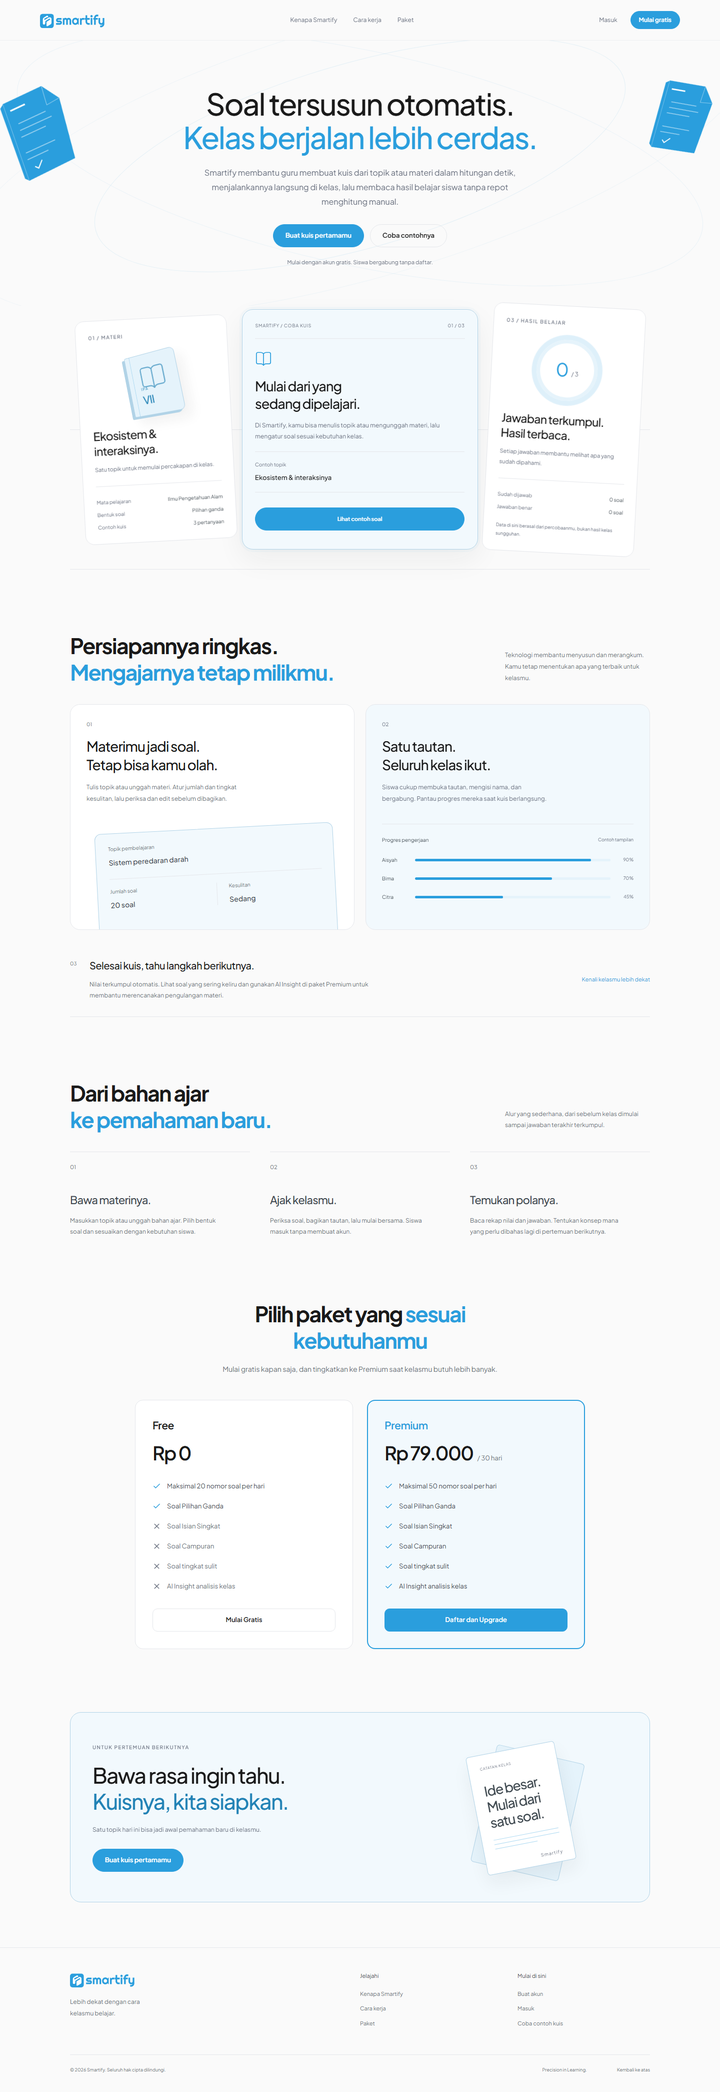
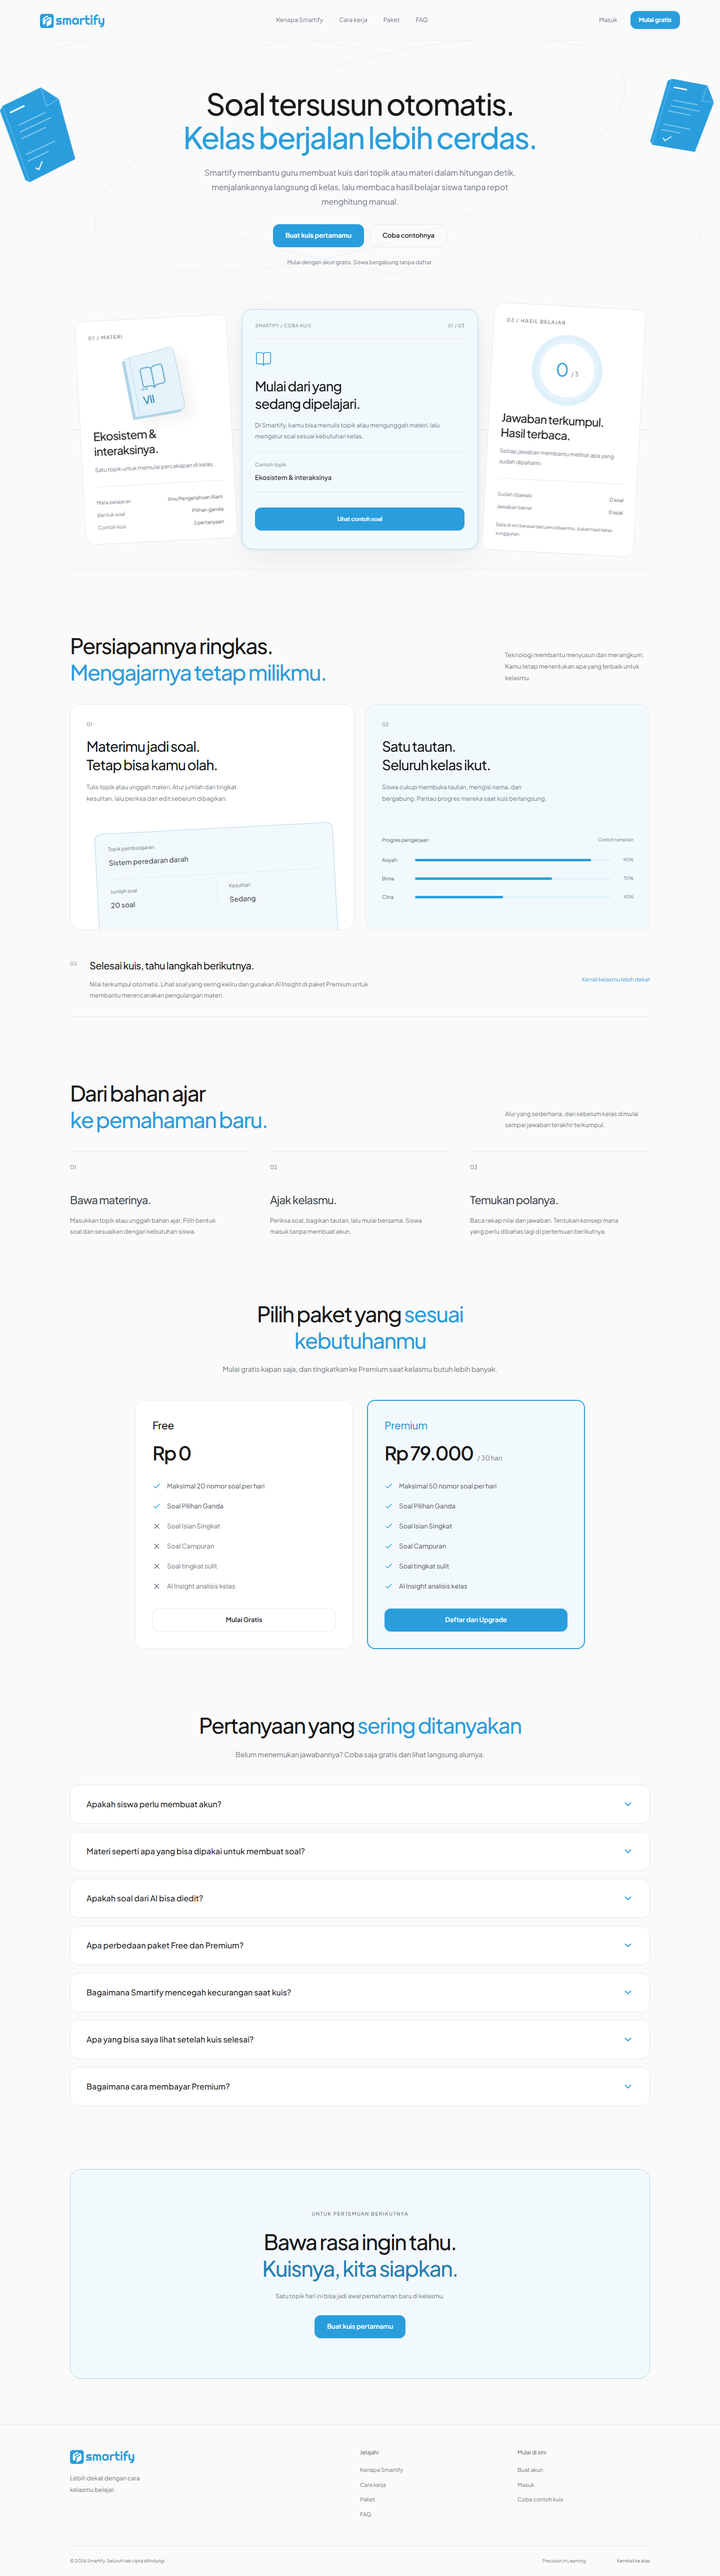
feat: add landing FAQ and polish landing page, add README screenshots

diff --git a/components/landing/landing.css b/components/landing/landing.css
@@ -40,7 +40,7 @@
 .landing-container { width: min(1160px, calc(100% - 80px)); margin-inline: auto; }
 .landing-skip { position: fixed; top: -100px; left: 20px; z-index: 100; padding: 12px 20px; background: var(--lp-accent); color: var(--lp-bg); border-radius: 6px; }
 .landing-skip:focus { top: 16px; }
-.landing-page .landing-button { min-height: 46px; padding: 12px 24px; display: inline-flex; align-items: center; justify-content: center; gap: 18px; background: var(--lp-accent); color: var(--primary-foreground); border: 1px solid var(--lp-accent); border-radius: 50px; font-size: 13px; font-weight: 600; line-height: 1.5; transition: background .2s, border-color .2s, transform .2s; text-decoration: none; }
+.landing-page .landing-button { min-height: 46px; padding: 12px 24px; display: inline-flex; align-items: center; justify-content: center; gap: 18px; background: var(--lp-accent); color: var(--primary-foreground); border: 1px solid var(--lp-accent); border-radius: var(--radius); font-size: 13px; font-weight: 600; line-height: 1.5; transition: background .2s, border-color .2s, transform .2s; text-decoration: none; }
 .landing-page .landing-button:hover { background: var(--lp-accent-strong); border-color: var(--lp-accent-strong); transform: translateY(-2px); }
 .landing-page .landing-button-outline { background: transparent; color: var(--lp-text); border-color: var(--lp-line); }
 .landing-page .landing-button-outline:hover { background: var(--lp-tint); border-color: var(--lp-edge); }
@@ -56,7 +56,7 @@
 .landing-nav-links a { padding-block: 14px; }
 .landing-nav-links a:hover, .landing-login:hover { color: var(--lp-accent); }
 .landing-nav-actions { display: flex; align-items: center; gap: 26px; }
-.landing-menu { display: none; width: 38px; height: 38px; place-items: center; border: 1px solid var(--lp-line); border-radius: 50%; color: var(--lp-text); background: transparent; }
+.landing-menu { display: none; width: 38px; height: 38px; place-items: center; border: 1px solid var(--lp-line); border-radius: var(--radius); color: var(--lp-text); background: transparent; }
 .landing-nav-links .landing-mobile-login { display: none; }
 
 .landing-hero { position: relative; padding: 92px 24px 76px; overflow: hidden; }
@@ -128,9 +128,8 @@
 .landing-section { margin-top: 126px; }
 .landing-section-heading { display: flex; justify-content: space-between; align-items: flex-end; gap: 40px; margin-bottom: 38px; }
 .landing-section-heading .landing-overline { margin-bottom: 17px; }
-.landing-page h2 { font-size: clamp(29px, 3.1vw, 43px); font-weight: 450; line-height: 1.22; letter-spacing: -.045em; }
+.landing-page h2 { font-size: clamp(29px, 3.1vw, 43px); font-weight: 500; line-height: 1.22; letter-spacing: -.045em; }
 .landing-page h2 > span { color: var(--muted); }
-.landing-page :is(#features-title, #how-title) { font-weight: 700; }
 .landing-page :is(#features-title, #how-title) > span { color: var(--primary); }
 .landing-section-heading > p { max-width: 290px; padding-bottom: 3px; font-size: 12px; line-height: 1.9; color: var(--lp-muted); }
 .landing-feature-grid { display: grid; grid-template-columns: 1fr 1fr; gap: 22px; }
@@ -166,21 +165,12 @@
 .landing-steps h3 { margin-top: 40px; color: var(--label); font-size: 22px; font-weight: 450; letter-spacing: -.035em; }
 .landing-steps p { margin-top: 14px; max-width: 310px; color: var(--lp-muted); font-size: 12px; line-height: 1.9; }
 
-.landing-cta { display: grid; grid-template-columns: 1.35fr 1fr; align-items: center; margin-block: 126px 90px; padding: 44px; min-height: 340px; background: var(--lp-tint); border: 1px solid var(--lp-edge); border-radius: 22px; position: relative; overflow: hidden; }
+.landing-cta { display: grid; justify-items: center; text-align: center; margin-block: 126px 90px; padding: 80px 44px; background: var(--lp-tint); border: 1px solid var(--lp-edge); border-radius: 22px; position: relative; overflow: hidden; }
 .landing-cta > div:first-child { position: relative; z-index: 2; }
 .landing-cta h2 { margin-top: 22px; }
 .landing-cta h2 > span { color: var(--lp-accent-strong); }
-.landing-cta p { max-width: 360px; color: var(--lp-muted); font-size: 12px; line-height: 1.9; margin-top: 19px; }
+.landing-cta p { max-width: 420px; margin-inline: auto; color: var(--lp-muted); font-size: 12px; line-height: 1.9; margin-top: 19px; }
 .landing-cta .landing-button { margin-top: 26px; }
-.landing-cta-art { height: 290px; position: relative; perspective: 800px; }
-.landing-cta-sheet, .landing-cta-sheet-back { width: 180px; height: 240px; position: absolute; top: 27px; left: calc(50% - 75px); border: 1px solid var(--lp-edge); border-radius: 6px; background: var(--lp-panel); transform: rotate(-11deg); z-index: 1; }
-.landing-cta-sheet { padding: 23px; box-shadow: 0 18px 36px var(--lp-shadow); }
-.landing-cta-sheet > span { display: block; color: var(--muted); font-size: 7px; letter-spacing: .12em; }
-.landing-cta-sheet > strong { display: block; color: var(--label); font-size: 27px; font-weight: 450; letter-spacing: -.05em; line-height: 1.2; margin-block: 22px 18px; }
-.landing-cta-sheet > i { display: block; margin-top: 8px; height: 1px; background: var(--lp-rule); }
-.landing-cta-sheet > i:nth-of-type(3) { width: 65%; }
-.landing-cta-sheet > span:last-child { margin-top: 22px; text-align: right; font-size: 9px; }
-.landing-cta-sheet-back { transform: rotate(13deg) translate(15px, 6px); background: var(--lp-tint-2); border-color: var(--lp-edge); z-index: 0; }
 .landing-footer { border-top: 1px solid var(--lp-line); }
 .landing-footer-top { display: grid; grid-template-columns: 2fr 1fr 1fr; gap: 50px; padding-block: 48px 54px; }
 .landing-footer-top p { color: var(--muted); font-size: 12px; line-height: 1.9; margin-top: 18px; }
@@ -239,10 +229,7 @@
   .landing-feature-summary { display: block; }
   .landing-feature-summary .landing-text-link { margin-top: 22px; margin-left: 39px; }
   .landing-steps { gap: 26px; }
-  .landing-cta { grid-template-columns: 1.4fr 1fr; padding: 32px; margin-block: 96px 70px; }
-  .landing-cta-sheet, .landing-cta-sheet-back { width: 150px; height: 220px; left: calc(50% - 65px); }
-  .landing-cta-sheet { padding: 20px; }
-  .landing-cta-sheet > strong { font-size: 24px; }
+  .landing-cta { padding: 56px 32px; margin-block: 96px 70px; }
 }
 @media (max-width: 620px) {
   .landing-container, .landing-nav-inner { width: calc(100% - 36px); }
@@ -297,13 +284,11 @@
   .landing-steps li { padding-top: 16px; }
   .landing-steps h3 { margin-top: 17px; font-size: 23px; }
   .landing-steps p { margin-top: 10px; max-width: none; font-size: 11px; }
-  .landing-cta { grid-template-columns: 1fr; padding: 28px 25px 0; margin-block: 76px 60px; border-radius: 18px; }
+  .landing-cta { padding: 44px 25px; margin-block: 76px 60px; border-radius: 18px; }
   .landing-cta .landing-overline { font-size: 8px; }
   .landing-cta h2 { margin-top: 18px; font-size: 31px; }
   .landing-cta p { font-size: 11px; }
   .landing-cta .landing-button { min-height: 43px; font-size: 11px; }
-  .landing-cta-art { height: 245px; margin-top: 14px; }
-  .landing-cta-sheet, .landing-cta-sheet-back { top: 24px; left: calc(50% - 85px); }
   .landing-footer-top { grid-template-columns: 1fr 1fr; padding-block: 35px; gap: 30px 20px; }
   .landing-footer-top > div { grid-column: 1 / -1; }
   .landing-footer-top > div p { font-size: 11px; margin-top: 13px; }
@@ -319,13 +304,13 @@
 }
 
 .landing-pricing-heading { text-align: center; }
-.landing-pricing-heading h2 { max-width: 660px; margin-inline: auto; font-weight: 700; }
+.landing-pricing-heading h2 { max-width: 660px; margin-inline: auto; }
 .landing-pricing-heading h2 > span { color: var(--lp-accent); }
 .landing-pricing-heading p { margin: 18px auto 0; color: var(--lp-muted); font-size: 14px; line-height: 1.9; }
 .landing-pricing-cards { display: grid; grid-template-columns: repeat(2, minmax(0, 1fr)); gap: 28px; max-width: 900px; margin: 48px auto 0; }
 .landing-plan-card { display: flex; flex-direction: column; padding: 34px; border: 1px solid var(--lp-line); border-radius: 16px; background: var(--lp-panel); }
 .landing-plan-card-premium { border: 2px solid var(--primary); padding: 33px; background: var(--lp-tint); }
-.landing-plan-card h3 { font-size: 21px; font-weight: 600; letter-spacing: -.025em; }
+.landing-plan-card h3 { font-size: 21px; font-weight: 500; letter-spacing: -.025em; }
 .landing-plan-card-premium h3 { color: var(--lp-accent); }
 .landing-plan-card .landing-plan-price { display: flex; align-items: baseline; flex-wrap: wrap; gap: 8px; margin-top: 15px; font-size: 38px; font-weight: 600; letter-spacing: -.05em; line-height: 1.3; }
 .landing-plan-period { color: var(--lp-muted); font-size: 13px; font-weight: 400; letter-spacing: 0; }
@@ -333,7 +318,7 @@
 .landing-plan-card li { display: flex; align-items: flex-start; gap: 12px; color: var(--label); font-size: 13px; line-height: 1.7; }
 .landing-plan-card li > svg { flex-shrink: 0; margin-top: 3px; color: var(--lp-accent); }
 .landing-plan-card li.is-unavailable, .landing-plan-card li.is-unavailable > svg { color: var(--muted); }
-.landing-page .landing-plan-card .landing-button { display: flex; width: 100%; margin-top: auto; border-radius: 10px; }
+.landing-page .landing-plan-card .landing-button { display: flex; width: 100%; margin-top: auto; border-radius: var(--radius); }
 @media (max-width: 620px) {
   .landing-pricing-heading p { font-size: 12px; margin-top: 15px; }
   .landing-pricing-cards { grid-template-columns: 1fr; gap: 20px; max-width: 420px; margin-top: 30px; }
@@ -367,10 +352,8 @@
   .landing-plan-card:hover,
   .landing-material:hover,
   .landing-demo-insight:hover { translate: 0 -4px; border-color: var(--lp-edge); box-shadow: 0 12px 28px var(--lp-shadow); }
-  .landing-book-art,
-  .landing-cta-sheet { transition: transform .35s ease; }
+  .landing-book-art { transition: transform .35s ease; }
   .landing-material:hover .landing-book-art { transform: perspective(500px) rotateY(-10deg) rotate(-5deg); }
-  .landing-cta:hover .landing-cta-sheet { transform: rotate(-7deg) translateY(-5px); }
 }
 
 @media (max-width: 620px) {
@@ -404,3 +387,18 @@
 .landing-nav { transition: box-shadow .3s ease, background .3s ease; }
 .landing-nav[data-scrolled="true"] { box-shadow: 0 8px 24px var(--lp-shadow); }
 .landing-paper { will-change: translate; }
+
+.landing-faq-list { display: grid; gap: 16px; margin-top: 48px; }
+.landing-faq-list details { border: 1px solid var(--lp-line); border-radius: 16px; background: var(--lp-panel); transition: border-color .25s ease, box-shadow .25s ease; }
+.landing-faq-list details[open] { border-color: var(--lp-edge); box-shadow: 0 12px 28px var(--lp-shadow); }
+.landing-faq-list summary { display: flex; align-items: center; justify-content: space-between; gap: 24px; padding: 26px 32px; cursor: pointer; list-style: none; color: var(--lp-text); font-size: 16px; font-weight: 500; line-height: 1.5; transition: color .2s; }
+.landing-faq-list summary::-webkit-details-marker { display: none; }
+.landing-faq-list summary:hover { color: var(--lp-accent-strong); }
+.landing-faq-list summary > svg { flex-shrink: 0; color: var(--lp-accent); transition: transform .3s ease; }
+.landing-faq-list details[open] summary > svg { transform: rotate(180deg); }
+.landing-faq-list details > p { max-width: 720px; padding: 0 32px 28px; color: var(--lp-muted); font-size: 14px; line-height: 1.8; animation: landing-arrive .3s ease-out both; }
+@media (max-width: 620px) {
+  .landing-faq-list { gap: 12px; margin-top: 32px; }
+  .landing-faq-list summary { padding: 20px; font-size: 15px; }
+  .landing-faq-list details > p { padding: 0 20px 22px; font-size: 13px; }
+}

diff --git a/components/landing/Faq.tsx b/components/landing/Faq.tsx
@@ -1,0 +1,67 @@
+import { ChevronDown } from "lucide-react";
+
+const questions = [
+  {
+    question: "Apakah siswa perlu membuat akun?",
+    answer:
+      "Tidak. Siswa cukup memindai QR code atau membuka tautan kuis, mengisi nama, lalu bergabung. Akun hanya dibutuhkan oleh guru.",
+  },
+  {
+    question: "Materi seperti apa yang bisa dipakai untuk membuat soal?",
+    answer:
+      "Unggah file PDF berukuran maksimal 10 MB. Hasil terbaik didapat dari materi berbasis teks yang jelas, karena AI menyusun soal dari isi dokumen tersebut.",
+  },
+  {
+    question: "Apakah soal dari AI bisa diedit?",
+    answer:
+      "Bisa. Setelah soal dibuat, kamu dapat memeriksa dan mengubah teks soal, pilihan jawaban, kunci jawaban, topik, dan penjelasan sebelum kuis dibagikan ke siswa.",
+  },
+  {
+    question: "Apa perbedaan paket Free dan Premium?",
+    answer:
+      "Paket Free dibatasi 20 nomor soal per hari dan hanya untuk soal Pilihan Ganda. Premium membuka 50 nomor soal per hari, soal Isian Singkat dan Campuran, soal tingkat sulit, serta AI Insight untuk analisis kelas.",
+  },
+  {
+    question: "Bagaimana Smartify mencegah kecurangan saat kuis?",
+    answer:
+      "Setiap kali siswa berpindah tab atau jendela, pelanggarannya dicatat dan terlihat oleh guru. Pada pelanggaran ketiga, kuis siswa tersebut otomatis dikumpulkan. Kunci jawaban dan pembahasan baru dikirim setelah guru mengakhiri kuis.",
+  },
+  {
+    question: "Apa yang bisa saya lihat setelah kuis selesai?",
+    answer:
+      "Kamu mendapat rekap nilai tiap siswa, tingkat kelulusan terhadap KKM, analisis penguasaan per topik, dan akurasi kelas untuk setiap soal. Rekap nilai juga bisa diunduh.",
+  },
+  {
+    question: "Bagaimana cara membayar Premium?",
+    answer:
+      "Premium berharga Rp 79.000 untuk 30 hari. Pembayaran dilakukan lewat QRIS dan riwayat transaksinya tersimpan di halaman Billing.",
+  },
+];
+
+export function Faq() {
+  return (
+    <section
+      id="faq"
+      className="landing-section landing-container"
+      aria-labelledby="faq-title"
+    >
+      <div className="landing-pricing-heading">
+        <h2 id="faq-title">
+          Pertanyaan yang <span>sering ditanyakan</span>
+        </h2>
+        <p>Belum menemukan jawabannya? Coba saja gratis dan lihat langsung alurnya.</p>
+      </div>
+      <div className="landing-faq-list">
+        {questions.map((item) => (
+          <details key={item.question}>
+            <summary>
+              <span>{item.question}</span>
+              <ChevronDown size={22} aria-hidden="true" />
+            </summary>
+            <p>{item.answer}</p>
+          </details>
+        ))}
+      </div>
+    </section>
+  );
+}

diff --git a/components/landing/LandingMotion.tsx b/components/landing/LandingMotion.tsx
@@ -13,6 +13,7 @@ const revealTargets = [
   ".landing-pricing-heading",
   ".landing-pricing-cards > *",
   ".landing-plan-card li",
+  ".landing-faq-list > details",
   ".landing-cta > *",
   ".landing-footer-top > *",
   ".landing-student i",
@@ -26,6 +27,7 @@ const staggerGroups: { selector: string; base: number; step: number; max: number
   { selector: ".landing-steps", base: 0, step: 140, max: 2 },
   { selector: ".landing-pricing-cards", base: 0, step: 140, max: 1 },
   { selector: ".landing-plan-card ul", base: 220, step: 70, max: 5 },
+  { selector: ".landing-faq-list", base: 0, step: 80, max: 6 },
   { selector: ".landing-cta", base: 0, step: 140, max: 1 },
   { selector: ".landing-footer-top", base: 0, step: 100, max: 2 },
 ];

diff --git a/components/auth/AuthLayout.tsx b/components/auth/AuthLayout.tsx
@@ -43,8 +43,8 @@ export function AuthLayout({ children, title, description, formTitle, formDescri
       <div className="w-full lg:w-[40%] flex flex-col bg-white overflow-y-auto">
         <main className="flex-1 flex items-center justify-center p-6 sm:p-12 min-h-full">
           <div className="w-full max-w-[400px] mx-auto space-y-8 py-8">
-            <div className="flex flex-col items-center text-center mb-8">
-              <Link href="/" className="mt-6 mb-6">
+            <div className="flex flex-col items-center text-center mb-4">
+              <Link href="/" className="mt-12 mb-6">
                 <Image
                   src="/logo_smartify.svg"
                   alt="Logo Smartify"

diff --git a/app/page.tsx b/app/page.tsx
@@ -3,6 +3,7 @@ import { Hero } from "@/components/landing/Hero";
 import { Features } from "@/components/landing/Features";
 import { HowItWorks } from "@/components/landing/HowItWorks";
 import { Pricing } from "@/components/landing/Pricing";
+import { Faq } from "@/components/landing/Faq";
 import { CtaSection } from "@/components/landing/CtaSection";
 import { LandingFooter } from "@/components/landing/LandingFooter";
 import { LandingMotion } from "@/components/landing/LandingMotion";
@@ -19,6 +20,7 @@ export default function Home() {
         <Features />
         <HowItWorks />
         <Pricing />
+        <Faq />
         <CtaSection />
       </main>
       <LandingFooter />

diff --git a/components/landing/CtaSection.tsx b/components/landing/CtaSection.tsx
@@ -18,23 +18,6 @@ export function CtaSection() {
           Buat kuis pertamamu
         </Link>
       </div>
-      <div className="landing-cta-art" aria-hidden="true">
-        <div className="landing-cta-sheet">
-          <span>CATATAN KELAS</span>
-          <strong>
-            Ide besar.
-            <br />
-            Mulai dari
-            <br />
-            satu soal.
-          </strong>
-          <i />
-          <i />
-          <i />
-          <span>Smartify</span>
-        </div>
-        <div className="landing-cta-sheet-back" />
-      </div>
     </section>
   );
 }

diff --git a/components/landing/LandingFooter.tsx b/components/landing/LandingFooter.tsx
@@ -26,6 +26,7 @@ export function LandingFooter() {
             <a href="#fitur">Kenapa Smartify</a>
             <a href="#cara-kerja">Cara kerja</a>
             <a href="#paket">Paket</a>
+            <a href="#faq">FAQ</a>
           </nav>
           <nav aria-label="Akun Smartify">
             <span>Mulai di sini</span>

diff --git a/components/landing/LandingNavbar.tsx b/components/landing/LandingNavbar.tsx
@@ -9,6 +9,7 @@ const links = [
   { href: "#fitur", label: "Kenapa Smartify" },
   { href: "#cara-kerja", label: "Cara kerja" },
   { href: "#paket", label: "Paket" },
+  { href: "#faq", label: "FAQ" },
 ];
 
 export function LandingNavbar() {

diff --git a/README.md b/README.md
@@ -18,6 +18,7 @@ Tampilan
 |---|---|
 | Landing page ([lihat versi penuh](.github/images/landing-full.png)) | ![Landing page](.github/images/landing-hero.png) |
 | Login | ![Login](.github/images/login.png) |
+| Daftar akun | ![Daftar akun](.github/images/register.png) |
 | Dashboard guru | ![Dashboard guru](.github/images/dashboard.png) |
 | Generate kuis dari PDF | ![Generate kuis](.github/images/generate.png) |
 | Pratinjau dan editor soal | ![Pratinjau kuis](.github/images/quiz-preview.png) |
